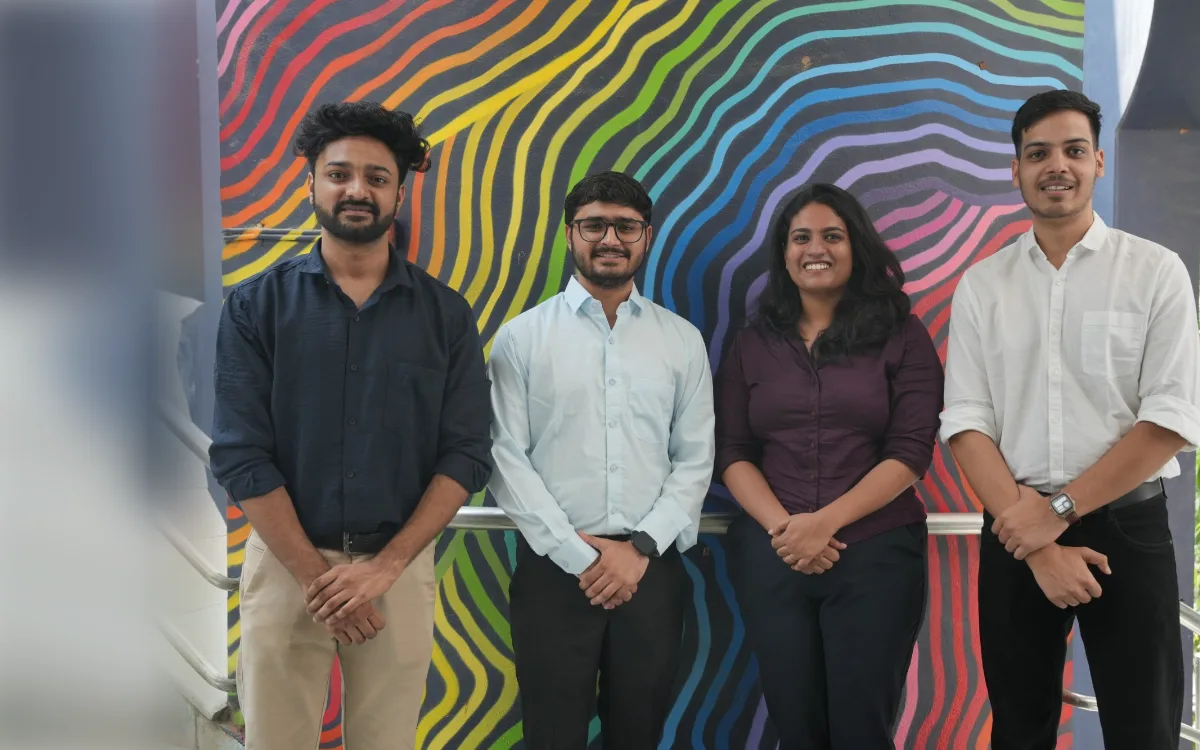
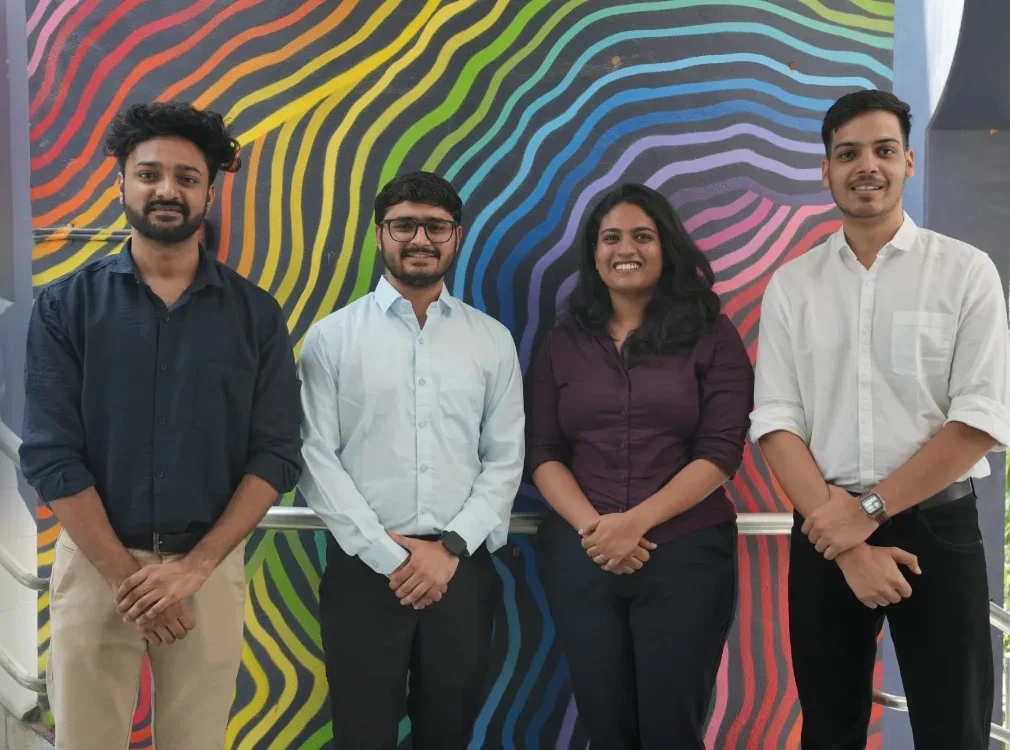
Reorder projects, feature the top 8, add Dean's List badge, recentre CaseAthon photo
- Projects ordered: OOTD (marked "Complete app"), GiftSense, Connecting Train
  Journeys, Emotional Sharing with AI Tools, Designing for Indian Roads,
  Ember, SkillSwap, then Early Stage Funding Strategies and the rest
- At a glance shows the first 8 product projects in two clean rows with a
  "Show N more projects" toggle; hackathon builds stay fully visible
- Dean's List Award shown as a badge under IIIT Hyderabad in Education and
  worded on the Education card
- CaseAthon photo recentred so the whole team is in frame (no half-cut person)

diff --git a/src/data/folders.ts b/src/data/folders.ts
@@ -41,6 +41,8 @@ export interface FolderFile {
   img?: string;
   /** Big headline word on image-less cards; defaults to the title's first word. */
   word?: string;
+  /** Small pill shown on the card image, e.g. "Complete app". */
+  badge?: string;
 }
 
 export interface FolderDef {
@@ -96,16 +98,16 @@ export const FOLDERS: Record<FolderKey, FolderDef> = {
     f1: '#2a3c63', f2: '#3f5e96', tab: '#4d6fa8',
     desc: 'Case studies, research projects & 0→1 builds',
     files: [
+      { ico: '👗', title: 'OOTD', badge: 'Complete app', desc: 'A complete iOS app, live on the App Store. A private outfit diary with polaroid-style daily photo logging, occasion & location tags and no social feed. Grew to 50+ users through word of mouth.', tags: ['Complete app', '0→1', 'iOS', 'App Store'], link: 'https://ootd-app-topaz.vercel.app/', img: imgOotd },
       { ico: '🎁', title: 'GiftSense: AI Gift Recommender', desc: 'AI for PMs capstone. Built with Claude Code, using the Gemini API for recommendations and Cloudflare AI for images, with system prompts and guardrails. Ran LLM evaluations on a 50-case golden dataset (v1 gift-fit 72.5%) and fixed 12 issues it found; v2 matched the expected action on 46 of 50 cases, with all 45 AI answers passing every hard check.', tags: ['AI', 'LLM Evals', 'Gemini', 'Claude Code'], link: 'https://giftsense-bzjm.vercel.app', img: imgGiftsense },
-      { ico: '💸', title: 'Early Stage Funding Strategies', word: 'Funding', desc: 'Academic project on funding strategies for early-stage startups.', tags: ['Startups', 'Funding', 'Strategy'] },
       { ico: '🚆', title: 'Connecting Train Journeys (IRCTC)', desc: 'Sized an underserved traveller problem with a 94-response survey & live KPI dashboard (19.1% had missed a connection, 63.2% would pay). Validated demand with a fake-door test: 159 sessions, 22 of 23 price picks chose a paid tier.', tags: ['Market Research', 'Fake-Door Test', 'Validation'], link: 'https://mrv-tau.vercel.app/', img: imgIrctc },
-      { ico: '🛣', title: 'Designing for Indian Roads', desc: 'HCI study on usability challenges of Indian road conditions → interaction principles & interface recommendations.', tags: ['HCI', 'Research', 'Interaction'], link: 'https://drive.google.com/file/d/13301HTq8iZ64Zr3dPrxyB67qYBWju-Eg/view', img: imgHci },
       { ico: '🤖', title: 'Emotional Sharing with AI Tools', desc: 'Mixed-methods study on how adults 18–40 emotionally engage with AI conversational tools, turned into design recommendations.', tags: ['User Research', 'Card Sorting'], link: 'https://drive.google.com/file/d/19n12xb1Io1uN-WviCQYlIfzH3ArvzFib/view', img: imgUrm },
-      { ico: '👗', title: 'OOTD', desc: 'Private iOS outfit-diary app, live on the App Store. Polaroid-style daily photo logging with occasion & location tags and no social feed. Grew to 50+ users through word of mouth.', tags: ['0→1', 'iOS', 'App Store'], link: 'https://ootd-app-topaz.vercel.app/', img: imgOotd },
+      { ico: '🛣', title: 'Designing for Indian Roads', desc: 'HCI study on usability challenges of Indian road conditions → interaction principles & interface recommendations.', tags: ['HCI', 'Research', 'Interaction'], link: 'https://drive.google.com/file/d/13301HTq8iZ64Zr3dPrxyB67qYBWju-Eg/view', img: imgHci },
+      { ico: '🕯', title: 'Ember', desc: "A two-format luxury fragrance ecosystem for L'Oréal Brandstorm '26.", tags: ['Product Design', "L'Oréal"], link: 'https://drive.google.com/file/d/15JRh9G1y_Xgr6MGmNqxueK7LtoqeSp38/view?usp=sharing', img: imgBrandstorm },
       { ico: '🔄', title: 'SkillSwap', desc: 'Peer-to-peer skill exchange platform: product discovery, Figma wireframing & full-stack MERN build.', tags: ['0→1', 'Full Stack', 'Wireframing'], link: 'https://drive.google.com/file/d/1dPdX8xhUIIbWTVMqVriklOKalOiFoW-j/view', img: imgSkillswap },
+      { ico: '💸', title: 'Early Stage Funding Strategies', word: 'Funding', desc: 'Academic project on funding strategies for early-stage startups.', tags: ['Startups', 'Funding', 'Strategy'] },
       { ico: '🎨', title: 'Design Thinking Project', desc: 'A collaborative maker-experience platform built through the design thinking process.', tags: ['Design Thinking', 'IIIT-H'], link: 'https://drive.google.com/file/d/1Wb3ZXYt-Vw4KUOSokVyeIzdDtD68FGi9/view', img: imgDesignThinking },
       { ico: '💬', title: 'Vidya Vichar', desc: 'Interactive classroom Q&A system for real-time student engagement.', tags: ['Full Stack', 'Product'], link: 'https://github.com/Ishaan-Giri/VidyaVichar.git', img: imgVidyavichar },
-      { ico: '🕯', title: 'Ember', desc: "A two-format luxury fragrance ecosystem for L'Oréal Brandstorm '26.", tags: ['Product Design', "L'Oréal"], link: 'https://drive.google.com/file/d/15JRh9G1y_Xgr6MGmNqxueK7LtoqeSp38/view?usp=sharing', img: imgBrandstorm },
       { ico: '📸', title: 'Instagram: PMF Case Study', desc: 'Product-market-fit teardown of Instagram.', tags: ['Product Strategy', 'PMF'], link: 'https://www.canva.com/design/DAGzHc6y5ho/YSE1gPugSj6HgSdPTyUaNQ/view', img: imgInstagramPmf },
       { ico: '📊', title: 'Zerodha: Product Strategy', desc: 'Market analysis & product strategy deep-dive.', tags: ['Market Analysis', 'Strategy'], link: 'https://www.canva.com/design/DAG0WQk_icc/1CpRrfeQny5awClTrFDOlg/view', img: imgZerodha },
     ],
@@ -160,7 +162,7 @@ export const FOLDERS: Record<FolderKey, FolderDef> = {
     name: 'Education', em: '🎓',
     f1: '#1d4a3e', f2: '#2f6e58', tab: '#3a8068',
     files: [
-      { ico: '🎓', title: 'M.Tech, Product Design & Management', sub: 'IIIT Hyderabad', desc: '2025 – 2027 · CGPA 8.61 · Dean\'s List Award', tags: ['Product', 'Design', "Dean's List"] },
+      { ico: '🎓', title: 'M.Tech, Product Design & Management', sub: 'IIIT Hyderabad', desc: "2025 – 2027 · CGPA 8.61. Selected for the Dean's List Award for top academic performance.", tags: ["Dean's List", 'Product', 'Design'] },
       { ico: '💻', title: 'B.Tech, Computer Science & Engineering', sub: 'Govt Engineering College, Thrissur', desc: '2019 – 2023 · CGPA 8.81', tags: ['CSE'] },
       { ico: '📚', title: 'AISSCE (PCMC) & AISSE', sub: 'Good Shepherd Public School, Thengana', desc: 'AISSCE 2019 · 96.2%   |   AISSE 2017 · CGPA 10', tags: ['School'] },
     ],

diff --git a/src/components/Glance.tsx b/src/components/Glance.tsx
@@ -36,7 +36,11 @@ const TIMELINE: { years: string; roles: Role[] }[] = [
 ];
 
 const EDUCATION = [
-  { school: 'IIIT Hyderabad', what: "M.Tech, Product Design & Management · 2025 – 2027 · CGPA 8.61 · Dean's List" },
+  {
+    school: 'IIIT Hyderabad',
+    what: 'M.Tech, Product Design & Management · 2025 – 2027 · CGPA 8.61',
+    badge: "Dean's List Award · top academic performance",
+  },
   { school: 'GEC Thrissur', what: 'B.Tech, Computer Science · 2019 – 2023 · CGPA 8.81' },
 ];
 
@@ -118,13 +122,27 @@ function Block({ title, i, children, className = '', onOpen, collapsible = false
   );
 }
 
-/** A row of project tiles; each opens its card in the matching deck. */
-function ProjectGroup({ label, items, onPick }: { label: string; items: FolderFile[]; onPick: (i: number) => void }) {
+/** A grid of project tiles; each opens its card in the matching deck. Long lists show a featured few first. */
+function ProjectGroup({
+  label,
+  items,
+  onPick,
+  featured = items.length,
+}: {
+  label: string;
+  items: FolderFile[];
+  onPick: (i: number) => void;
+  featured?: number;
+}) {
+  const [all, setAll] = useState(false);
+  const hidden = items.length - featured;
+  const shown = all || hidden <= 0 ? items : items.slice(0, featured);
+
   return (
     <div className="g-proj-group">
       <span className="g-sublabel">{label}</span>
       <div className="g-projects">
-        {items.map((p, i) => (
+        {shown.map((p, i) => (
           <button type="button" className="g-proj" key={p.title} onClick={() => onPick(i)}>
             <span className="g-proj-thumb">
               {p.img ? (
@@ -132,12 +150,18 @@ function ProjectGroup({ label, items, onPick }: { label: string; items: FolderFi
               ) : (
                 <span className="g-proj-word">{p.word ?? p.title.split(/[\s,:]/)[0]}</span>
               )}
+              {p.badge && <span className="badge-pill">{p.badge}</span>}
             </span>
             <span className="g-proj-title">{p.title}</span>
             {p.desc && <span className="g-proj-desc">{p.desc}</span>}
           </button>
         ))}
       </div>
+      {hidden > 0 && (
+        <button type="button" className="g-more g-more-projects" aria-expanded={all} onClick={() => setAll((v) => !v)}>
+          {all ? 'Show fewer' : `Show ${hidden} more projects`}
+        </button>
+      )}
     </div>
   );
 }
@@ -208,6 +232,11 @@ export function Glance({ onJump }: GlanceProps) {
                     >
                       <strong>{e.school}</strong>
                       <span>{e.what}</span>
+                      {e.badge && (
+                        <span className="g-honor">
+                          <span aria-hidden="true">★</span> {e.badge}
+                        </span>
+                      )}
                     </button>
                   </li>
                 ))}
@@ -252,7 +281,12 @@ export function Glance({ onJump }: GlanceProps) {
           summary={`${projects.length + hackathons.length} projects`}
           onOpen={() => onJump('projects', 0)}
         >
-          <ProjectGroup label="Product & research" items={projects} onPick={(i) => onJump('projects', i)} />
+          <ProjectGroup
+            label="Product & research"
+            items={projects}
+            featured={8}
+            onPick={(i) => onJump('projects', i)}
+          />
           <ProjectGroup label="Hackathon builds" items={hackathons} onPick={(i) => onJump('hackathons', i)} />
         </Block>
 

diff --git a/src/styles/v2.css b/src/styles/v2.css
@@ -407,3 +407,11 @@ a{color:inherit}
   .dcard{animation:fadeIn var(--dur-3) ease both}
   *{transition-duration:1ms!important}
 }
+
+/* small pill on a project image (e.g. "Complete app") */
+.badge-pill{position:absolute;top:10px;left:10px;z-index:2;font-size:.62rem;font-weight:800;letter-spacing:.08em;text-transform:uppercase;
+  padding:5px 10px;border-radius:99px;background:#fff;color:var(--navy);box-shadow:0 4px 14px rgba(0,0,0,.35)}
+.g-more-projects{margin-top:18px}
+.g-honor{display:inline-flex;align-items:center;gap:7px;margin-top:6px;font-size:.74rem;font-weight:800;letter-spacing:.04em;
+  padding:5px 11px;border-radius:99px;color:#ffd6f1;border:1px solid rgba(240,105,200,.45);background:rgba(211,35,156,.16)}
+.g-honor span:first-child{color:var(--magenta-hi)}

diff --git a/src/components/Deck.tsx b/src/components/Deck.tsx
@@ -123,6 +123,7 @@ function DeckCard({ file, i, focused = false }: { file: FolderFile; i: number; f
               {file.img ? (
                 <div className="dcard-media">
                   <img src={file.img} alt="" loading="lazy" draggable={false} />
+                  {file.badge && <span className="badge-pill">{file.badge}</span>}
                 </div>
               ) : (
                 <div className={`dcard-media type head-${head}`}>
